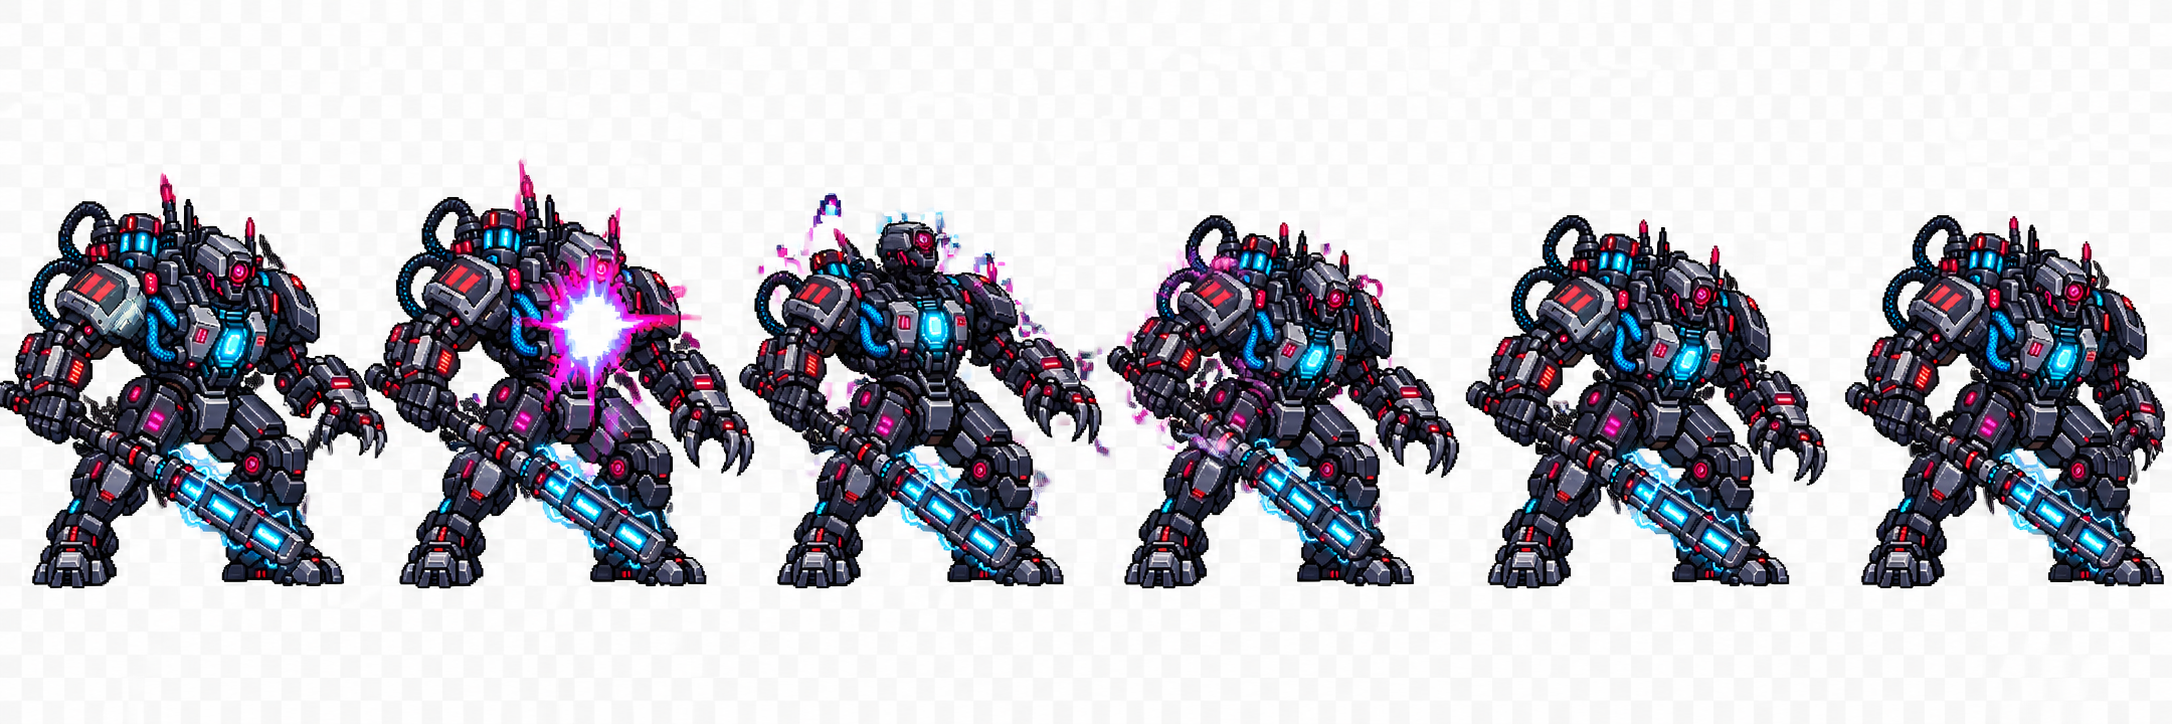
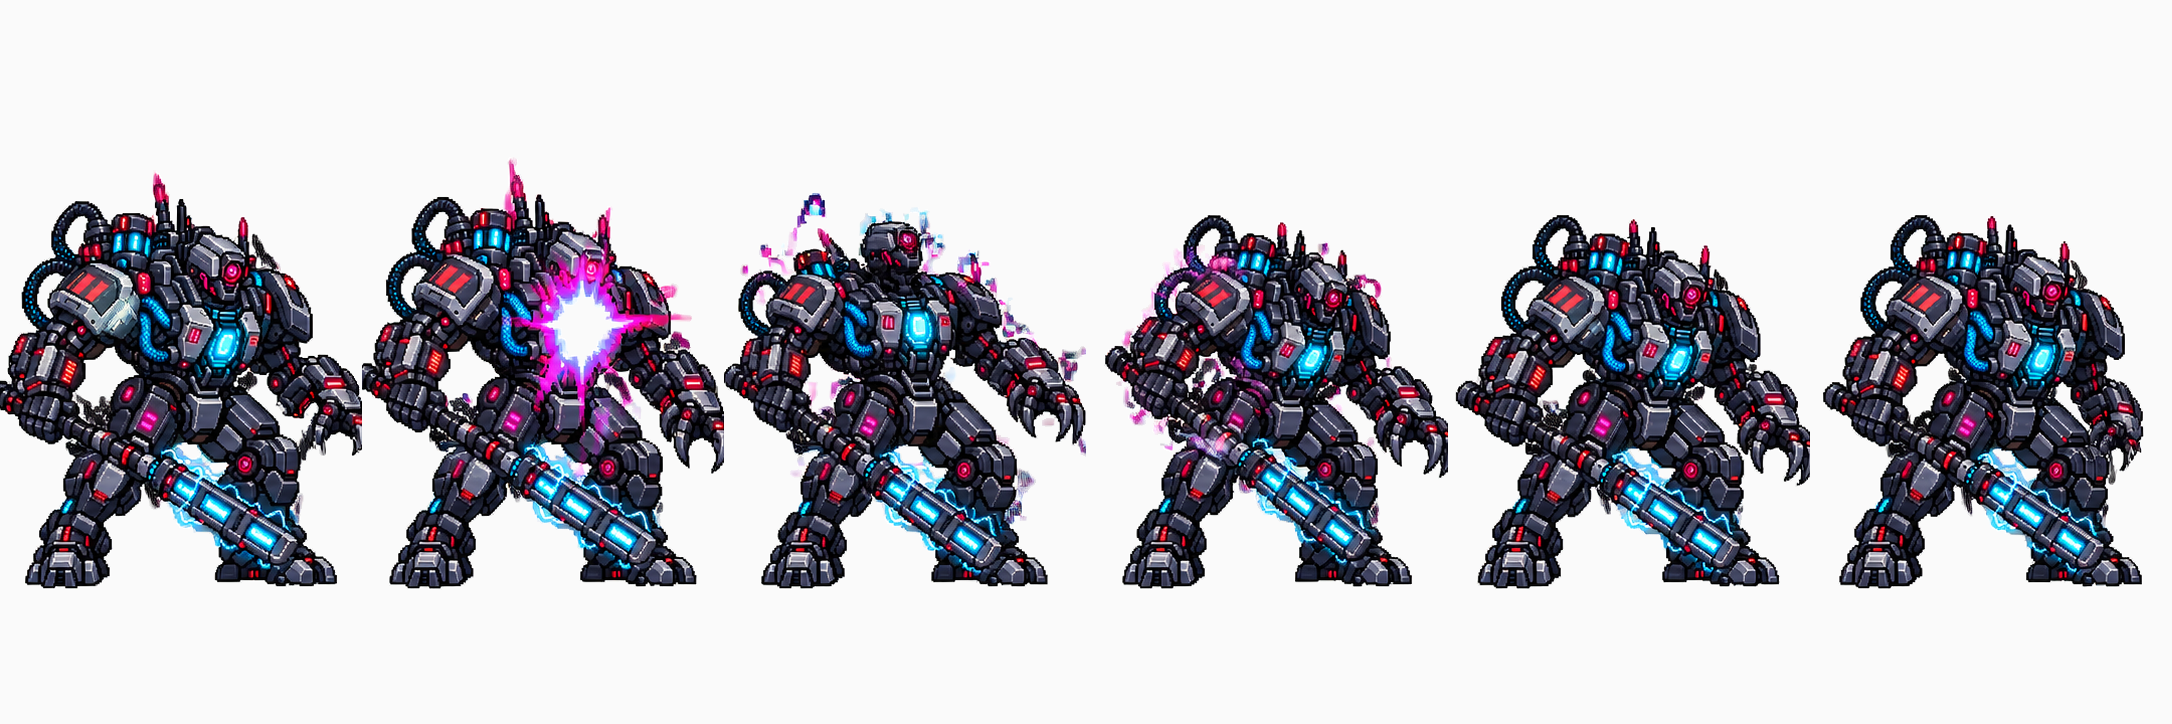
일반 스테이지 아트 적용 및 근접 적 애니메이션 수정
- Stage05/06/07에 기존 공용 StageArtDirector 아트 적용
- 배경 텍스처가 3장뿐이라 Stage05~07은 Stage_Background_01~03을 재사용
- Wave Spawn 시 기본 Sprite가 한 프레임 노출되던 현상 수정
  (DecorateEnemies를 Start 루프에서 LateUpdate로 이동)
- Melee_Hit 시트 프레임 배치 정리
- Melee_Attack / Melee_Death를 실제 포즈 수에 맞춰 6프레임 구조로 재배치하고
  StageArtDirector의 columns를 7에서 6으로 수정
- 기존 Wave / HP / 공격력 / Spawn 구성은 변경하지 않음

Changed region(s): [[0.0, 0.2127, 1.0, 0.8204]]

diff --git a/RPG DEMO/Assets/Scripts/StageArtDirector.cs b/RPG DEMO/Assets/Scripts/StageArtDirector.cs
@@ -4,7 +4,7 @@ using UnityEngine;
 using UnityEngine.SceneManagement;
 
 /// <summary>
-/// Stage01~03 전용 아트 연결기입니다. 웨이브/피격 판정은 그대로 두고 런타임에
+/// Stage01~03, Stage05~07 전용 아트 연결기입니다. 웨이브/피격 판정은 그대로 두고 런타임에
 /// 배경과 캐릭터 스프라이트만 최종 아트로 교체합니다.
 /// </summary>
 [DisallowMultipleComponent]
@@ -20,7 +20,7 @@ public sealed class StageArtDirector : MonoBehaviour
     private IEnumerator Start()
     {
         stageNumber = ParseStageNumber(SceneManager.GetActiveScene().name);
-        if (stageNumber < 1 || stageNumber > 3)
+        if (stageNumber == 0)
         {
             enabled = false;
             yield break;
@@ -30,18 +30,36 @@ public sealed class StageArtDirector : MonoBehaviour
         {
             EnsureBackdrop();
             EnsureTerrainArt();
-            DecorateEnemies();
             if (stageNumber == 3) DecorateDefenseDog();
             yield return new WaitForSeconds(ScanInterval);
         }
     }
 
-    private static int ParseStageNumber(string sceneName)
+    // 적은 웨이브의 Update/코루틴에서 생성되므로, 렌더링 직전인 LateUpdate에서 아트를
+    // 입혀야 스폰된 프레임에 기본 프리팹 스프라이트가 노출되지 않습니다.
+    private void LateUpdate()
+    {
+        DecorateEnemies();
+    }
+
+    internal static int ParseStageNumber(string sceneName)
     {
         if (sceneName == "Stage01") return 1;
         if (sceneName == "Stage02") return 2;
         if (sceneName == "Stage03") return 3;
+        if (sceneName == "Stage05") return 5;
+        if (sceneName == "Stage06") return 6;
+        if (sceneName == "Stage07") return 7;
         return 0;
+    }
+
+    // 배경 텍스처는 Stage_Background_01~03 세 장뿐이라 Stage05~07은 이를 재사용합니다.
+    private static int BackgroundIndex(int stage)
+    {
+        if (stage == 5) return 1;
+        if (stage == 6) return 2;
+        if (stage == 7) return 3;
+        return stage;
     }
 
     private void EnsureBackdrop()
@@ -49,7 +67,7 @@ public sealed class StageArtDirector : MonoBehaviour
         if (backdropCreated) return;
 
         Camera stageCamera = Camera.main;
-        Texture2D texture = StageArtLibrary.LoadTexture($"StageArt/Stage_Background_0{stageNumber}");
+        Texture2D texture = StageArtLibrary.LoadTexture($"StageArt/Stage_Background_0{BackgroundIndex(stageNumber)}");
         if (stageCamera == null || texture == null) return;
 
         GameObject backdrop = new GameObject($"Stage0{stageNumber}_FinalBackdrop");
@@ -259,11 +277,11 @@ internal sealed class StageEnemyArtAnimator : MonoBehaviour
             new Vector2(0.5f, 0f), new[] { 0.50f, 0.50f, 0.50f, 0.50f, 0.50f, 0.49f });
         walkFrames = StageArtLibrary.LoadFrames("StageArt/Melee_Walk", 6, 0.25f, 0.82f, 176f,
             new Vector2(0.5f, 0f), new[] { 0.54f, 0.50f, 0.50f, 0.50f, 0.50f, 0.44f });
-        attackFrames = StageArtLibrary.LoadFrames("StageArt/Melee_Attack", 7, 0.29f, 0.76f, 176f,
+        attackFrames = StageArtLibrary.LoadFrames("StageArt/Melee_Attack", 6, 0.29f, 0.76f, 176f,
             new Vector2(0.5f, 0f), new[] { 0.53f, 0.50f, 0.50f, 0.50f, 0.50f, 0.50f, 0.49f });
         hitFrames = StageArtLibrary.LoadFrames("StageArt/Melee_Hit", 6, 0.18f, 0.82f, 176f,
             new Vector2(0.5f, 0f), new[] { 0.50f, 0.50f, 0.50f, 0.50f, 0.50f, 0.49f });
-        deathFrames = StageArtLibrary.LoadFrames("StageArt/Melee_Death", 7, 0.25f, 0.77f, 176f,
+        deathFrames = StageArtLibrary.LoadFrames("StageArt/Melee_Death", 6, 0.25f, 0.77f, 176f,
             new Vector2(0.5f, 0f), new[] { 0.53f, 0.50f, 0.50f, 0.50f, 0.50f, 0.44f, 0.46f });
         InitializeRenderer(true, 1f);
         SetVisualGroundOffset(-0.66f);
@@ -457,7 +475,7 @@ internal sealed class StageDeathArtPlayback : MonoBehaviour
     }
 }
 
-/// <summary>Stage01~03의 원거리 적이 생성한 투사체에만 빨간 총알 프레임을 적용합니다.</summary>
+/// <summary>Stage01~03, Stage05~07의 원거리 적이 생성한 투사체에만 빨간 총알 프레임을 적용합니다.</summary>
 internal sealed class StageRangedProjectileArt : MonoBehaviour
 {
     private SpriteRenderer targetRenderer;
@@ -470,7 +488,7 @@ internal sealed class StageRangedProjectileArt : MonoBehaviour
         if (projectile == null) return;
 
         string sceneName = SceneManager.GetActiveScene().name;
-        if (sceneName != "Stage01" && sceneName != "Stage02" && sceneName != "Stage03") return;
+        if (StageArtDirector.ParseStageNumber(sceneName) == 0) return;
         if (projectile.GetComponent<StageRangedProjectileArt>() != null) return;
 
         projectile.gameObject.AddComponent<StageRangedProjectileArt>().Configure();
